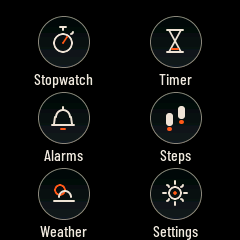
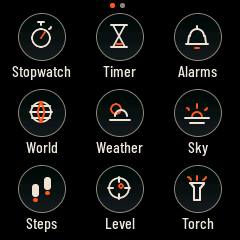
Docs: the toolbox and the new apps in the README, overview of 4 × 4, new demo GIF
- README: network toolbox, world & sky and hardware tools in the feature table; console
  commands; how to run the toolbox for real from the simulator; project status (stages 6
  and 8 built and simulated, on-watch check pending).
- tools/make_screens.sh renders the new screens into docs/screens/sim and the overview
  sheet, now four rows: faces and launcher, everyday apps, network tools, world clock /
  sun & moon / TV remote / level.
- The demo GIF follows the new launcher and ends in the network toolbox's Wi-Fi analyzer.
- DECISIONS D49–D56: paged launcher, Wi-Fi lease, toolbox techniques, plain HTTP for the
  speed test and public IP, larger LVGL pool, infrared through LEDC, offline astronomy,
  and what remains to verify on the watch.
- CI: the host tests link libm; the simulator job renders every new screen.

Claude-Session: https://claude.ai/code/session_01BHBYox5ENEx9Hdd9LiBx8a

diff --git a/sim/main.c b/sim/main.c
@@ -56,10 +56,14 @@ static const stroke_t DEMO[] = {
     {5200, 6400, 120, 120, 120, 120},    /* long press on PRESENT TIME: discharge */
     {8600, 8820, 205, 120, 35, 120},     /* → night */
     {10400, 10620, 120, 205, 120, 35},   /* swipe up: launcher */
-    {12000, 12080, 65, 195, 65, 195},    /* tap Weather */
+    {12000, 12080, 120, 113, 120, 113},  /* tap Weather */
     {18600, 18680, 175, 215, 175, 215},  /* OK on the notification card */
+    {20000, 20220, 35, 120, 205, 120},   /* swipe right: back to the launcher */
+    {21400, 21700, 215, 130, 25, 130},   /* next launcher page */
+    {23000, 23080, 42, 37, 42, 37},      /* tap Network */
+    {24800, 24880, 120, 70, 120, 70},    /* tap Wi-Fi analyzer */
 };
-static const uint32_t DEMO_END_MS = 20500;
+static const uint32_t DEMO_END_MS = 29000;
 #define RECORD_FPS 20
 
 static void demo_pointer(uint32_t t)

diff --git a/README.md b/README.md
@@ -3,20 +3,23 @@
 [![CI](https://github.com/storagebits/kronograf/actions/workflows/ci.yml/badge.svg)](https://github.com/storagebits/kronograf/actions/workflows/ci.yml)
 [![License: MIT](https://img.shields.io/badge/license-MIT-blue.svg)](LICENSE)
 
-**A from-scratch firmware for the LilyGO T-Watch 2020**: an aviation chronograph face, "time circuits" 7-segment displays straight out of *Back to the Future*, Montréal weather and real-time bus departures, and iPhone notifications. ESP32, LVGL 8.3, and a macOS simulator that builds exactly the same interface.
+**A from-scratch firmware for the LilyGO T-Watch 2020**: an aviation chronograph face, "time circuits" 7-segment displays straight out of *Back to the Future*, Montréal weather and real-time bus departures, iPhone notifications, a network engineer's toolbox on the wrist (Wi-Fi analyzer, ping, traceroute, LAN scan, speed test…), a TV remote, a world clock and a sun & moon almanac. ESP32, LVGL 8.3, and a macOS simulator that builds exactly the same interface.
 
 <p align="center">
-  <img src="docs/screens/kronograf-demo.gif" width="360" alt="Demo: aviator face, time circuits with the lightning easter egg, night face, launcher, weather and an iPhone notification">
+  <img src="docs/screens/kronograf-demo.gif" width="360" alt="Demo: aviator face, time circuits with the lightning easter egg, night face, launcher, weather, an iPhone notification, then the network toolbox and its Wi-Fi analyzer">
 </p>
 
-![Kronograf: watch faces, launcher, weather, notifications, timer, alarms](docs/screens/kronograf-overview.png)
+![Kronograf: watch faces, launcher, weather, notification, timer, alarms, Wi-Fi analyzer, ping, traceroute, speed test, world clock, sun and moon, TV remote, level](docs/screens/kronograf-overview.png)
 
 ## What the watch does
 
 | | |
 |---|---|
 | **Faces** | *Aviator chronograph* (smooth hands, battery / minutes / steps sub-dials, date window, weather complication, notification badge) · *Time circuits* (three 7-segment rows: next alarm, present time, last sync) · *Night* (time only, dark red, dimmed backlight). Swipe sideways between faces. |
-| **Apps** | Stopwatch, timer, alarms, 7-day step history, weather + buses, settings — a 2 × 3 launcher drawn like a set of sub-dials. |
+| **Apps** | Stopwatch, timer, alarms, world clock, weather + buses, sun & moon, 7-day step history, level, torch, network toolbox, TV remote, system monitor, settings — a launcher of 3 × 3 pages drawn like sub-dials, swiped sideways. |
+| **Network toolbox** | *Wi-Fi analyzer* (2.4 GHz channel map, every network with channel, signal and security) · *Link* (SSID, BSSID, signal, address, gateway, DNS, MAC, public IP and provider) · *Ping* with an RTT history and loss · *Traceroute* (ICMP, TTL 1–24) · *DNS lookup* · *Port check* (16 common TCP services) · *LAN scan* (ARP sweep of the /24, private MACs spotted) · *Speed test* (10 s download) · *Bluetooth scan* (BLE devices and their makers) · *Subnet calculator* (offline). Wi-Fi only stays on while the toolbox is open. |
+| **World & sky** | Twelve cities from Honolulu to Auckland with summer time, day / night and day shift, plus Zulu time · sunrise, sunset, civil twilight, day length and its daily change, the Moon's phase drawn to scale and the next full moon — computed offline. |
+| **Hardware tools** | *TV remote* over the infrared LED (Samsung, LG, Sony, Philips; power, volume, channels, mute, input, and "all TVs") · *Level* from the accelerometer, zeroed on any surface · *Torch* in white or red at full backlight · *System*: battery voltage and current from the AXP202, its temperature, RAM and PSRAM, CPU, frame rate, uptime, reset cause. |
 | **Weather** | [Open-Meteo](https://open-meteo.com) (no key needed): conditions, feels-like, the next 6 hours, vector pictograms; age of the reading or "offline". |
 | **STM buses** | Real-time departures at up to 3 chosen stops, from the STM GTFS-realtime feed (~1 MB, parsed as a stream on the watch, pinned certificate). Optional API key. |
 | **iPhone** | Notifications over ANCS (Bluetooth Low Energy): a card with vibration on arrival, a list, and "Clear" or "Decline" sent back to the iPhone. Pairing protected by a 6-digit passkey. |
@@ -43,10 +46,12 @@ cp include/secrets.example.h include/secrets.h   # optional: Wi-Fi, STM key, OTA
 cmake -S sim -B sim/build -DCMAKE_BUILD_TYPE=Release && cmake --build sim/build -j8
 sim/build/kronograf_sim                                       # ×3 window, the mouse is your finger
 KG_TIME=10:09:30 sim/build/kronograf_sim --shot shot.png      # headless PNG screenshot
+KG_NET_REAL=1 KG_APP=net:trace sim/build/kronograf_sim        # the toolbox, for real, from the Mac
+tools/make_screens.sh                                         # screenshots + the overview sheet
 tools/make_demo_gif.sh                                        # re-records the demo GIF (ffmpeg)
 ```
 
-The simulated HAL is driven by environment variables: `KG_TIME`, `KG_FACE`, `KG_APP` (`chrono`, `weather`, `notifs`…), `KG_BATT`, `KG_STEPS`, `KG_REV`, `KG_WX_CODE`, `KG_WX_TEMP`, `KG_BUS_STOPS`, `KG_BLE`, `KG_NOTIF_CAT`, `KG_ALERT`…
+The simulated HAL is driven by environment variables: `KG_TIME`, `KG_FACE`, `KG_APP` (`chrono`, `weather`, `notifs`, `net:ping`…), `KG_PAGE`, `KG_BATT`, `KG_STEPS`, `KG_REV`, `KG_WX_CODE`, `KG_WX_TEMP`, `KG_BUS_STOPS`, `KG_BLE`, `KG_NOTIF_CAT`, `KG_ALERT`, `KG_NET`, `KG_NET_REAL`, `KG_ACCEL`… The toolbox's demo data only uses documentation addresses.
 
 ### Watch
 
@@ -93,6 +98,9 @@ status        memory, FPS, battery, cause of the last reboot
 screenshot f  LVGL capture → PNG              lcdtest       R | G | B test pattern outside LVGL
 battlog       battery-life log                power <min>   current measured on USB, simulated battery
 weather [refresh]   bus [refresh | stops <codes> | key <key>]   ble [on | off | forget]
+net [<tool> [target]]   network toolbox: ping, trace, dns, ports, lan, speed, public, ble
+sys           system information             accel         accelerometer in g
+ir [<brand> <key>]  sends a TV code          app net:<tool>  opens a network tool
 sleep | wake | bl <n> | timeout <s> | face <n> | app <name> | timer <s> | coredump | reboot
 ```
 
@@ -100,13 +108,14 @@ sleep | wake | bl <n> | timeout <s> | face <n> | app <name> | timer <s> | coredu
 
 ```
 src/ui/          LVGL interface, identical on watch and simulator (faces, apps, theme, fonts)
-src/data/        plain C, host-tested: Open-Meteo, GTFS-RT (streamed protobuf), ANCS
+src/data/        plain C, host-tested: Open-Meteo, GTFS-RT (streamed protobuf), ANCS, network probes and
+                 toolbox runners (BSD sockets), time zones, sun and moon, infrared codes
 src/hal/hal.h    the only hardware interface the UI sees
 src/hal/device/  T-Watch: display (esp_lcd, DMA), AXP202, BMA423, network, BLE, safeguards
 src/hal/sim/     simulated implementation
 sim/             SDL2 harness, PNG screenshots, scripted demo recording
 tests/           parser tests (cc -I src tests/test_data.c src/data/kg_*.c)
-tools/           backup and block flashing, console, fonts, contact sheets, demo GIF, screen inlay
+tools/           backup and block flashing, console, fonts, screenshots and overview, demo GIF, screen inlay
 ```
 
 A few structural choices, detailed in [`DECISIONS.md`](DECISIONS.md):
@@ -114,6 +123,7 @@ A few structural choices, detailed in [`DECISIONS.md`](DECISIONS.md):
 - **One UI, two targets.** The interface only knows `hal.h`; the simulator compiles the same files. Every screenshot in the repository comes from one or the other.
 - **The ESP32 core voltage is never touched.** Unlike some firmwares, Kronograf never adjusts the AXP202's DCDC3 and never cuts the ESP32's power rail.
 - **Network jobs.** A background task chains NTP sync, weather and buses over a single connection, then turns Wi-Fi off.
+- **One toolbox, two targets.** The network tools are plain C over BSD sockets, so the simulator runs the very same ping, traceroute or speed test from the Mac. On the watch, the toolbox holds a Wi-Fi lease that lapses by itself once the screen is off.
 - **Memory.** The LVGL heap and the large TLS buffers live in PSRAM, keeping more than 30 % of internal RAM free with BLE, Wi-Fi and HTTPS all active.
 - **Safeguards.** An RTC watchdog with "breadcrumbs" in RTC memory, coredumps in flash, and a safe mode: after three early crashes, BLE is no longer started and OTA stays reachable.
 
@@ -126,7 +136,8 @@ Development went in stages, each one flashed and verified on the watch.
 - ✅ **0–3**: hardware diagnostics, faces, sleep and wake-ups, launcher, stopwatch, timer, alarms, steps, settings, sounds, vibration.
 - ✅ **4**: weather and STM buses.
 - ✅ **5**: iPhone notifications.
-- 🔜 **6**: infrared remote.
+- 🧪 **6**: infrared TV remote — built and simulated, to be checked on the watch.
+- 🧪 **8**: network toolbox, world clock, sun & moon, level, torch, system monitor — built, simulated, network tools run for real from the simulator; on-watch check pending.
 - 🔜 **7**: polish and a battery-life campaign.
 
 **Known limitations.** This board has no 32 kHz crystal, so light sleep is impossible while BLE is active: battery life with notifications is being measured (D41). The development unit's micro-USB connector is unreliable (B2), hence OTA updates and block flashing.

diff --git a/DECISIONS.md b/DECISIONS.md
@@ -116,3 +116,21 @@ Each entry: decision — rationale. Most recent at the bottom.
 **D47. STM API key entered on the watch.** A firmware built without `secrets.h` (a public release) must still be able to show buses. The key can be typed in Settings → STM buses (touch keyboard, cleared from the screen once confirmed) or sent over the console (`bus key <key>`, `bus key clear`). It is stored in NVS (`kgnet`/`stmkey`), like the Wi-Fi password, and takes precedence over `secrets.h`. It is never displayed or echoed in full: only its last four characters ("…ab12").
 
 **D48. Releases built by GitHub Actions only.** A `firmware.bin` built locally embeds the contents of `secrets.h` in clear text (Wi-Fi password, STM key): it must never be published. Pushing a `v*` tag runs `release.yml`, which builds on GitHub — where `secrets.h` does not exist, and the job checks it — then publishes the application binary, a merged image to flash at 0x0, and their SHA-256 sums.
+
+## Stages 6 and 8 — 2026-10-14: infrared remote, network toolbox, more apps
+
+**D49. Launcher in pages of 3 × 3** (replaces the single 2 × 3 grid of D26 / D37): thirteen apps no longer fit on one screen. The pages sit side by side in a strip that scrolls sideways and snaps one page at a time, with page dots at the top; it always opens on the first page from a face. A vertical swipe does not scroll the strip, so it still reaches the screen and closes the launcher. Order: everyday apps first (stopwatch, timer, alarms, world, weather, sky, steps, level, torch), tools on the second page (network, remote, system, settings).
+
+**D50. Network toolbox: a Wi-Fi lease, one tool at a time.** The toolbox renews a lease at 5 Hz while it is on screen (`hal_net_hold`); the lease lapses 20 s after the last renewal — the app closed, or the screen off since LVGL timers stop with it — and `net_workshop_loop()` then cancels the running tool and switches Wi-Fi off. Network jobs and workshop mode leave a leased connection up instead of tearing it down. Tools run in one background task on core 0; a new request cancels the running one and is picked up as soon as it returns, so the UI never waits on the network. The runners (ping, traceroute, DNS, ports, speed test, public IP) are plain C over BSD sockets (`src/data/kg_tools.c`, `kg_net.c`), shared with the simulator, which can run them for real from the Mac (`KG_NET_REAL=1`): ping, traceroute, port check, DNS and the speed test were checked that way against the real network.
+
+**D51. Toolbox techniques.** Ping and traceroute send ICMP echo requests with a chosen TTL on a raw lwIP socket (raw sockets also receive the routers' "time exceeded"); on macOS and Linux an unprivileged ICMP datagram socket does the same without root. The LAN scan is an ARP sweep of the /24 around the watch, in batches of 8 (lwIP keeps about ten ARP entries), run inside the lwIP thread through `tcpip_api_call()` since lwIP is not thread-safe here; locally administered MACs (phones' private addresses) are dimmed. The Bluetooth scan is a 5 s active NimBLE scan next to the iPhone link, only while Bluetooth is on (starting the stack for a scan would tie the light-sleep rules of D41 to the toolbox); the observer role is compiled back in for it. Tool state (2.6 KB, three copies) lives in PSRAM.
+
+**D52. Speed test and public IP over plain HTTP.** The speed test downloads up to 50 MB from `speed.cloudflare.com` for at most 10 s; the public IP, provider and network come from `ip-api.com`. Neither involves credentials, and TLS would cost RAM and cap the ESP32's throughput. ip-api.com only sees the address it reports, and only when the Link screen is opened.
+
+**D53. LVGL pool: 64 → 384 KB, still in PSRAM** (D40). Apps stay created once opened, and thirteen apps with the toolbox's screens exhausted 64 KB (seen in the simulator as a failed object allocation). Internal RAM is unaffected.
+
+**D54. Infrared through LEDC, not RMT.** The RMT driver is the usual choice, but linking it overflowed IRAM by 564 bytes (its ISR). The carrier is an LEDC PWM channel (high-speed timer 2; the backlight uses timer 0) at 36–40 kHz and 33 % duty, switched on and off against an absolute µs schedule. A send blocks the UI for one frame (≈ 70 ms NEC, 3 × 45 ms Sony), acceptable for a key press. Protocols: NEC (LG), Samsung, Sony SIRC 12 bits, Philips RC5 (with its toggle bit); pulse trains are generated and host-tested in `src/data/kg_ir.c`.
+
+**D55. Offline astronomy and time zones.** The world clock evaluates POSIX TZ rules itself (`kg_tz.c`) instead of switching libc's TZ, which would disturb the watch's own local time; it matches the C library on twelve zones every 37 minutes over two years. Sunrise, sunset and civil twilight use NOAA's sunrise equation (±1–2 min); the Moon's phase uses the elongation with Meeus' main periodic terms, within 20 minutes of the 2024 and 2025 eclipses. All at the home location of `kg_weather.h`.
+
+**D56. Not yet verified on the watch** (built and checked in the simulator only, the watch being away): IR emission (the LED can be seen through a phone camera), accelerometer axes and signs in the Level app (`accel` console command), the ARP sweep, the BLE scan next to ANCS, the speed test's throughput, AXP202 temperature, and the 30 % internal-RAM floor with the toolbox open.
